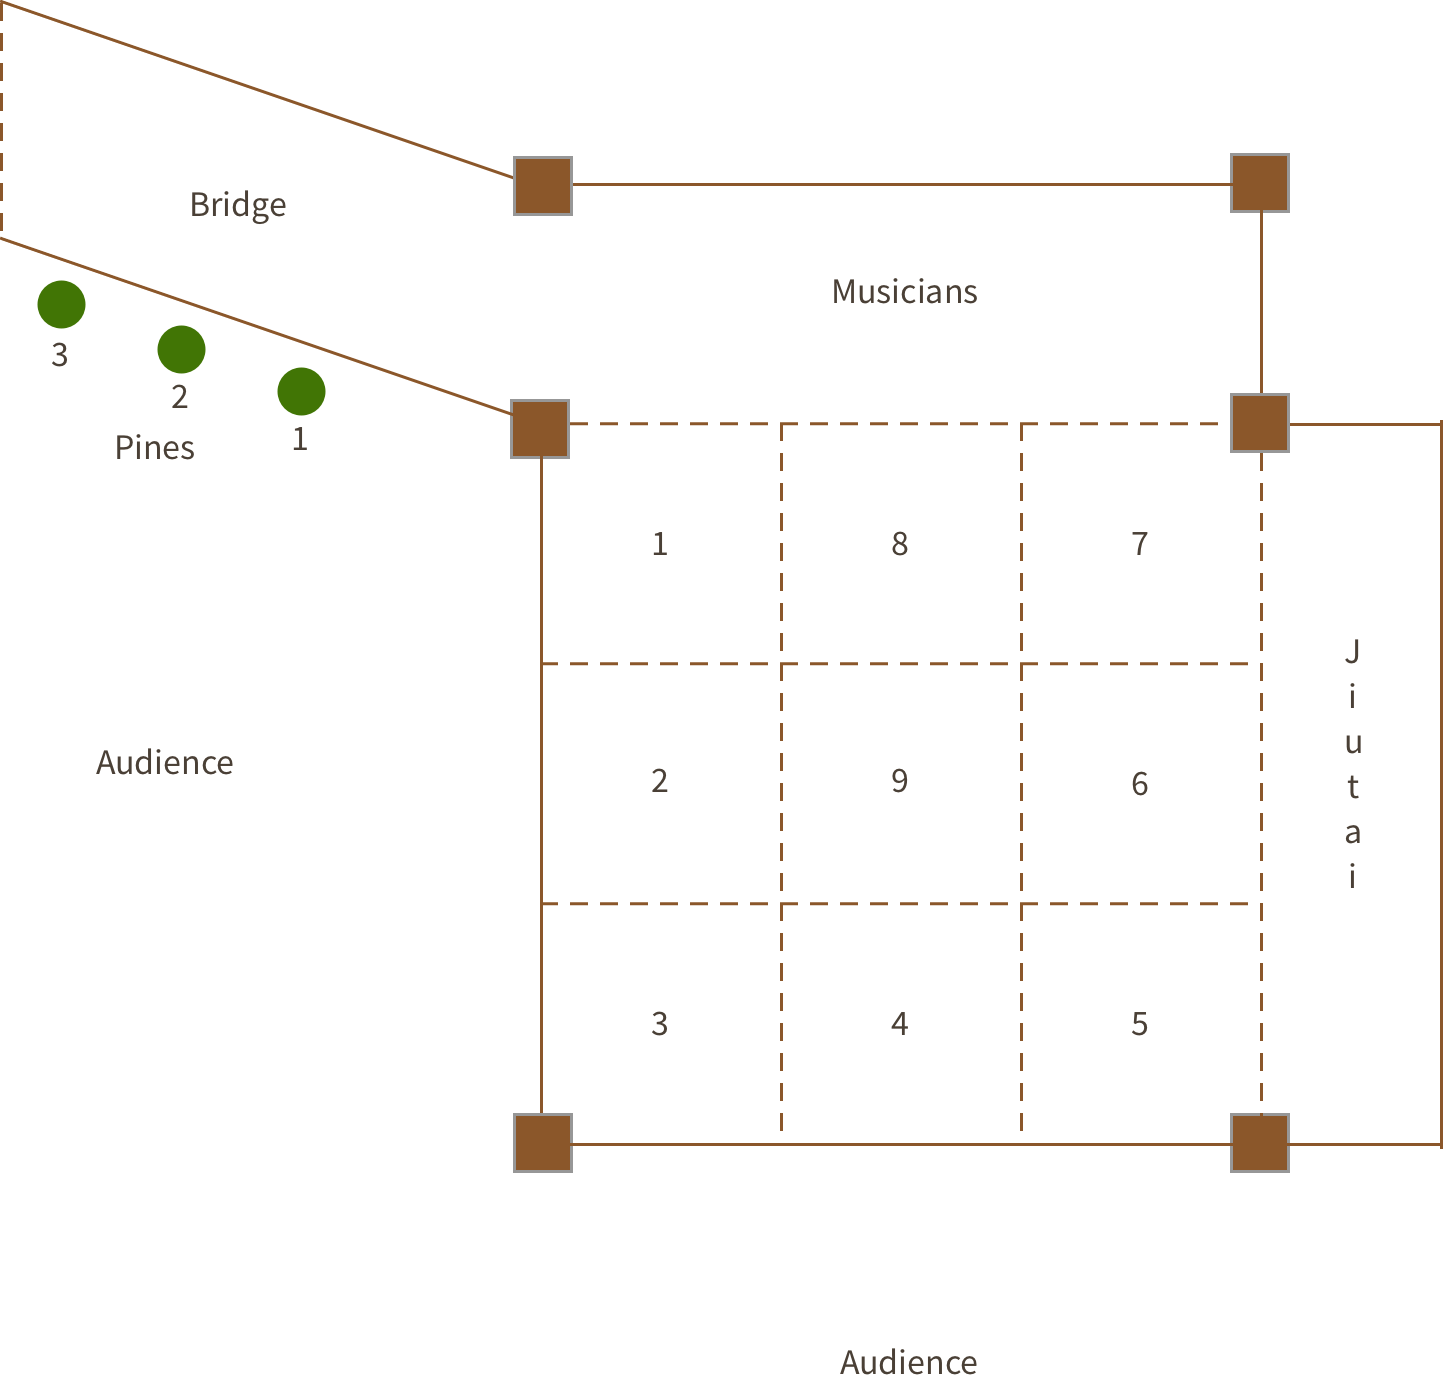
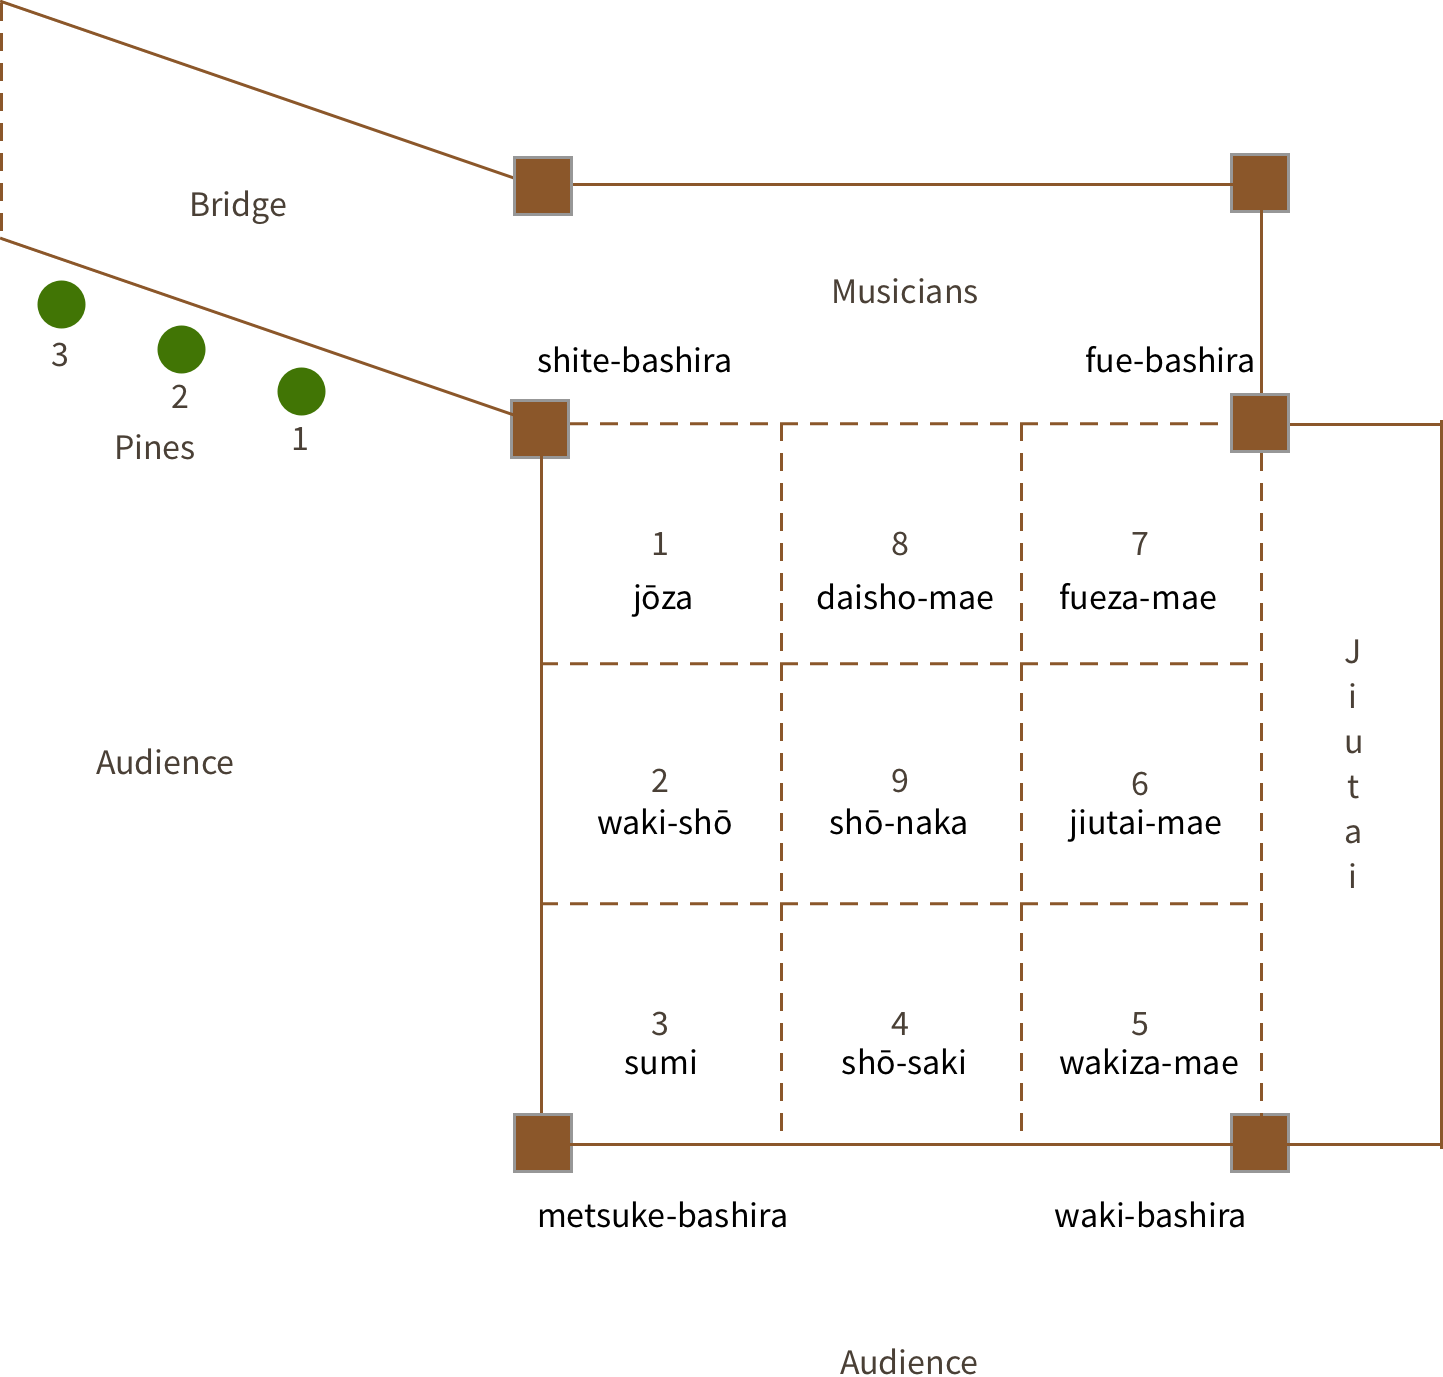
updates to shimai and stage

diff --git a/src/_includes/menu-dances.html b/src/_includes/menu-dances.html
@@ -4,9 +4,6 @@
     <a href="#Intro">Introduction</a>
   </li>
   <li class="anchor-menu__element {% if page.fourth-level-menu-active == 'roles' %}active{% endif %}">
-    <a href="#Hashitomi-Kuse-Front">Hashitomi</a>
-  </li>
-  <li class="anchor-menu__element {% if page.fourth-level-menu-active == 'roles' %}active{% endif %}">
-      <a href="#Kokaji-Kuse-Front">Kokaji</a>
+    <a href="#tabs">Dances</a>
   </li>
 </ul>

diff --git a/src/_staging/stage.md b/src/_staging/stage.md
@@ -12,66 +12,63 @@ third-level-menu-active: stage
 <main class="page-content">
   <div class="text-container">
     <h2 id="Stage">Stage</h2>
-    <p> The Noh stage is unique in its shape and components. First of all, it has a single entrance/exit for the actors designated by a multicolored curtain on the back-right side (directions are given in relationship with an imaginary actor standing in center stage facing the front audience). It opens up to a bridge sided with three pine trees that leads to the stage proper. This is the main space and is square in shape. A pine tree adorns the back wall and an extended space in the back and right side of the stage accommodate the musicians and jiutai’s members, respectively. The stage has four pillars and is covered by a roof that extends over the bridge. There is a small sliding door on the back-left corner of the stage that the stage attendants and jiutai members use to enter and leave the stage. Finally, the audience seating space spreads in a semi-circle from the right side to the front of the stage.</p><p>
+    <p> The Noh stage is unique in its shape and components. First of all, it has a single entrance/exit for the actors designated by a multicolored curtain on the back-right side (directions are given in relationship with an imaginary actor standing in center stage facing the front audience). It opens up to a bridge sided with three pine trees that leads to the stage proper. This is the main space and is square in shape. </p>
+    <p>A pine tree adorns the back wall and an extended space in the back and right side of the stage accommodate the musicians and jiutai’s members, respectively. The stage has four pillars and is covered by a roof that extends over the bridge. There is a small sliding door on the back-left corner of the stage that the stage attendants and jiutai members use to enter and leave the stage. Finally, the audience seating space spreads in a semi-circle from the right side to the front of the stage.</p>
 
-The roof above the stage testifies of the origins of Noh that only moved in-doors in 1882. It also references spaces of shinto rituals and the sacred architecture of shrines.</p><p>
+    <p>The painted pine tree on the back wall of the stage is meant to remind us of the outdoor origins of Noh. It is also a symbol of the famous Yōgō Pine at the Kasuga Shrine in Nara where Noh has been performed since its beginnings.</p>
 
-The painted pine tree on the back wall of the stage is also meant to remind us of the outdoor origins of Noh. It is also a symbol of the famous Yōgō Pine at the Kasuga Shrine in Nara where Noh has been performed since its beginnings.</p><p>
+    <p>The roof above the stage also testifies of the origins of Noh that only moved in-doors in 1882. Moreover, it references spaces of shinto rituals and the sacred architecture of shrines. It is supported by four named pillars. The right backstage pillar is referred to as the shite-pillar (<em>shite-bashira</em>) as it is closest to shite during extensive parts, in which he engages in conversation with waki. The right front stage pillar is called the viewing-pillar (<em>metsuke-bashira</em>) being at the crossing point of all seating. These two pillars are particularly important in helping a masked actor whose sight is thus limited, to have a sense of space when walking or dancing. The left front stage pillar is called the waki-pillar (<em>waki-bashira</em>) because this is where the waki sits when he is not actively participating in the action. Finally, the left backstage pillar is referred to as the flute-pillar (<em>fue-bashira</em>) because this is where the nohkan player sits.</p>
 
-The square of the stage proper can be divided into 3 x 3 sub-squares, numbered from 1 to 9.</p><p id="Squares"></p>
+    <p>The square-shaped stage is divided into a 3 x 3 grid, with nine named sub-squares. To facilitate refering to them we followed the numbering method from 1 to 9 that Monica Bethe and Karen Brazell established.</p><p id="Squares"></p>
 
     {% include image.html src="/assets/images/Noh-Stage-2.png" %}
 
-<p>The sub-squares do not all share the same dramatic potential since a dance motion is more powerful or subdued depending on where it is performed. Squares 3, 4, and 9 are the strongest positions: square 3 because it is the point of convergence of all the audience’s viewing points, square 4 because it is center front stage, and square 9 because it is center stage:</p>
-<p>Square 1 and 8 are used as starting and/or closing location for a dance or dance segment.</p>
-<p>Square 7 is almost never used since it interferes with the position of the nohkan player.</p>
-<p>Square 5 is usually occupied by the sitting waki since this is where he typically sits after completing his entrance.</p>
-<p>Square 2 and 6 are often used as intermediate positions in motion from back to front stage or vice versa.</p>
-<p>There are also following conventions associated with the stage:</p>
+
+    <p>The sub-squares do not all share the same dramatic potential since a dance motion is more powerful or subdued depending on where it is performed. Squares 3, 4, and 9 are the strongest positions: square 3 because it is the point of convergence of all the audience’s viewing points, square 4 because it is center front stage, and square 9 because it is center stage:
+    Square 1 and 8 are used as starting and/or closing location for a dance or dance segment.
+    Square 7 is almost never used since it interferes with the position of the nohkan player.
+    Square 5 is usually occupied by the waki who sits at that position once he has completed his entrance.
+    Squares 2 and 6 are often used as intermediate positions when a dancer is moving from back to front-stage or vice versa.
+    There are also conventions associated with the stage. For instance, for the Kanze and Kongō schools, front-stage represents South as shown in the Figure below (for the other three schools, Front-stage represents North):</p>
 
 <table class="content-table">
   <tr class="content-table__row--header">
     <td class="content-table__column">Orientation</td>
     <td class="content-table__column">Cardinal Point</td>
-    <td class="content-table__column">Typographical Feature</td>
   </tr>
   <tr class="content-table__row">
     <td class="content-table__column">Stage Right</td>
     <td class="content-table__column">West</td>
-    <td class="content-table__column">Flowing Water</td>
   </tr>
   <tr class="content-table__row">
     <td class="content-table__column">Front</td>
     <td class="content-table__column">South</td>
-    <td class="content-table__column">Plains and Ponds</td>
   </tr>
   <tr class="content-table__row">
     <td class="content-table__column">Stage Left</td>
     <td class="content-table__column">East</td>
-    <td class="content-table__column">Great Road</td>
   </tr>
   <tr class="content-table__row">
     <td class="content-table__column">Back</td>
     <td class="content-table__column">North </td>
-    <td class="content-table__column">Hills and Mountains</td>
   </tr>
 </table>
 
 
-<p>Another unique feature of the Noh stage is the upstage right, narrow bridge used by actors to access the stage proper.  Although it is also used as a performing space, the bridge is first and foremost the link between two separate realities: the everyday world and the otherworldly apparitions of ghosts and spirits. </p>
+  <p>Another unique feature of the Noh stage is the upstage right, narrow bridge used by actors to access the stage proper.  Although it is also used as a performing space, the bridge is looked upon as a link between two separate realities: the everyday world and the otherworldly apparitions of ghosts and spirits. It functions as a liminal space between the waki's real world and the shite's other world.
+  It is flanked by three pine trees used to divide the bridge into three parts. They are numbered from 1 to 3, where Pine 1 referring to the one closer to the stage, Pine 3 closer to the curtain.</p>
 
-<p>Different sections of the bridge have their own symbolic associations marked by three small pine trees located along it. The first tree, biggest and nearest one to the stage stands for heaven. The third one, smallest and the closest to the curtain represents earth. Both surround the middle pine tree, which symbolizes mankind.</p>
-<p>The four pillars that sustain the roof are named. The right backstage pillar is referred to as the shite-pillar as it is closest to shite during extensive parts, in which he engages in conversation with waki. The left front stage pillar is called the waki-pillar because this is where he sits when he is not actively participating in the action.The right front stage pillar is called the viewing-pillar being at the crossing point of all seating. The left backstage pillar is referred to as the flute-pillar because this is where the nohkan player sits.</p>
+  <p>Under some Noh stages large empty clay jars are placed to act as resonance bodies to amplify the sound of the shite’s stamping, as well as the sound of the drums, flute, and voices from the jiutai.</p>
 
-<p>Under some Noh stages large empty clay jars are placed to act as resonance bodies to amplify the sound of the shite’s stamping, as well as the sound of the drums, flute, and voices from the jiutai.</p>
+  <p>The simplicity of the Noh stage allows for various reinterpretations of its space. For instance, the stage represents three different location for the entrance of the three characters in Kokaji’s first act entrance.
+  The first one to appear is the wakizure, an imperial envoy. Thus, the bridge and stage are understood to be the palace where he works.
+  The second character to enter is the waki, Munechika the swordsmith, and at that moment, the bridge represents his house or factory.
+  Finally, when the shite appears, the bridge as well as the stage should be seen as somewhere outside of Munechika’s house.
+  In Kokaji’s second act, the addition of a <a href="/staging/props/#Kokaji" target="_blank">prop</a> helps identify a specific location, since the dais on Square 4 represents Munichika’s forge.</p>
 
-
-<p>The simplicity of the Noh stage allows for various reinterpretations of its space. For instance, the stage represents three different places for the entrance of the three characters in Kokaji’s first act entrance. The first one to appear is the wakizure, an imperial envoy. Thus, the bridge and stage are understood to be the palace where he works. The second character to enter is the waki, Munechika the swordsmith, and at that moment, the bridge represents his house or factory. Finally, when the shite appears, the bridge as well as the stage should be seen as somewhere outside of Munechika’s house, who at the time is on his way to the Inari shrine. Once Munechika sets on Square 6, we understand it to represent the shrine.
-In Kokaji’s second act, the addition of a prop helps identify a specific location, since the dais on Square 4 represents Munichika’s forge.</p>
-
-<p>In Hashitomi the waki is a monk living in Unrin-in Temple in Murasakino of Kitayama in Kyoto. Thus, the bridge and stage are understood to represent the temple. Things are little less obvious though with the entrance of the shite, a character who might be seen as a flower and as a ghost of a woman. As the monk is about to celebrate a mass for the flowers he notices an unusual white one among his lot, and as he wonders about it, the shite appearing as a woman speaks for the flower. Some say that she is the flower’s voice, other say that she is physically present.
-The choreography adopted by the Kongō school appears to support the former. The large distance between the two characters involved in a dialogue – the waki is kneeling on Square 6 while the shite is standing on the Bridge at the second pine – suggest that the waki can hear but maybe not see her.
-Like in Kokaji’s second act, a prop is also added for Hashitomi’s second act, that helps identify a specific location, since the prop standing on Square 8 represents the woman’s dwelling.</p>
+  <p>In Hashitomi the waki is a monk living in Unrin-in Temple in northern Kyoto. Thus, the bridge and stage are understood to represent that temple. Things are little less obvious though with the entrance of the shite, a character who might be seen as a flower or as the ghost of a woman. As the monk is about to celebrate a mass for the flowers he notices an unusual white one among his lot, and as he wonders about it, the shite appearing as a woman speaks for the flower. Some say that she is the flower’s voice, other say that she is physically present.
+  The choreography adopted by the Kongō school appears to support the former. The large distance between the two characters involved in a dialogue – the waki kneeling at Square 6 while the shite is standing on the Bridge at the Second Pine – could suggest that the waki can hear but maybe not see her.
+  In Hashitomi’s second act, like in Kokaji’s, a <a href="/staging/props/#Hashitomi" target="_blank">prop</a> is brought in. It helps identify a specific location, since the prop standing on Square 8 represents the woman’s dwelling.</p>
 
 </div>
 

diff --git a/src/shimai-dances.md b/src/shimai-dances.md
@@ -29,8 +29,8 @@ permalink: /shimai-dances/
 
         <p>When performing a <em>shimai</em> or <em>maibayashi</em>, the dancer is not masked and wears a crest-adorned kimono and <em>hakama</em> rather than a costume. Moreover, the fan is larger than the one used for a play. It is also handled differently by the members of the jiutai. Whereas they kneel with hands in their pockets, fans resting on the stage floor when inactive, they hold the fan upwards when singing in a play, but resting on their laps when singing in a <em>shimai</em> or <em>maibayashi</em>.</p>
 
-        <p>Using a jiutai limited to two members, the <em>shimai</em> version of Hashitomi and Kokaji’s <em>kuse</em> and <em>kiri</em> is presented from two different angles: front and side.<br>
-        Each dance is followed by our intepretation of its structure, where  <em>kata</em> are grouped into sequences. The numbers refer to the stage’s <a href="/staging/stage/#Squares" target="_blank">Squares</a><br>.
+        <p>Using a jiutai limited to two members, the <em>shimai</em> version of Hashitomi and Kokaji’s <em>kuse</em> and <em>kiri</em> is presented from two different angles: front and side.
+        Each dance is followed by our intepretation of its structure, where  <em>kata</em> are grouped into sequences. The numbers refer to the stage’s <a href="/staging/stage/#Squares" target="_blank">Squares</a>.</p><p>
         Finally, a word about Kokaji's <em>kuse</em>. It is divided into two parts: The shite sits center-stage during the first part, and dances during the second one. Only its second part is performed when presented as a <em>shimai</em>. <br>
         We have included both parts to illustrate and stress the point that in a context of little motion, every simple <em>kata</em> such as sliding left or right, head motion, raising on knee, and so on, become important, as each movement carries meaning.
         </p>
